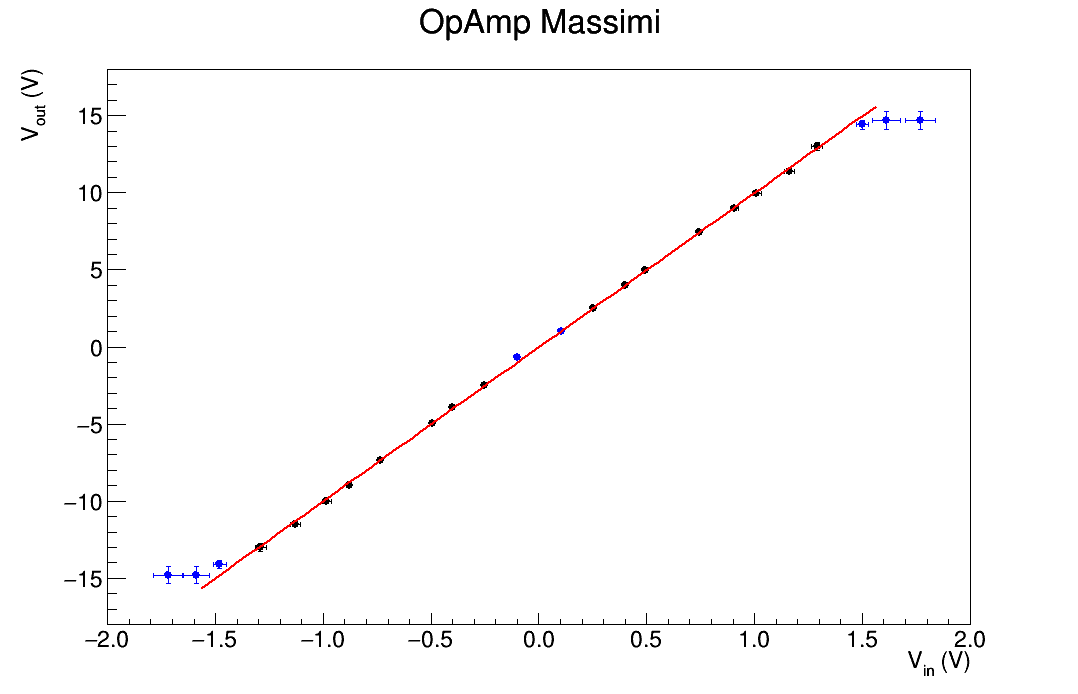
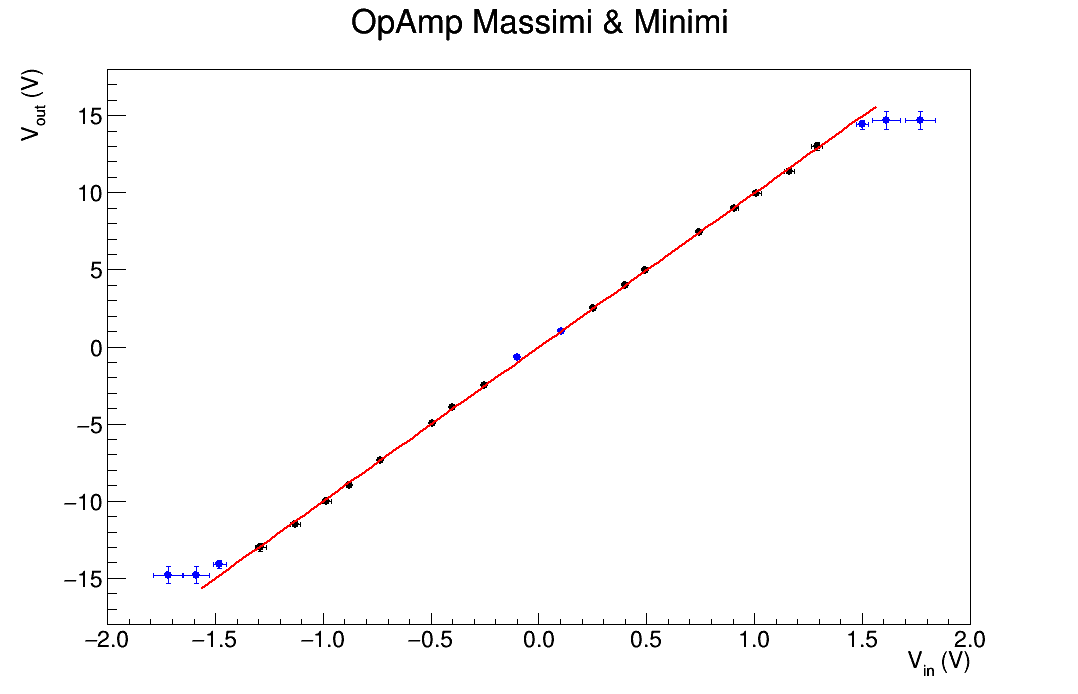
Updated code

Changed region(s): [[0.3367, 0.0, 0.6735, 0.0605]]

diff --git a/AMPLIFICATORI OPERAZIONALI/ROOT macros/opamp_all_plot_err.cpp b/AMPLIFICATORI OPERAZIONALI/ROOT macros/opamp_all_plot_err.cpp
@@ -97,6 +97,7 @@ void opamp_all_plot_err(){
     //personalizzo in modo globale i grafici
     NSP::settings_global();
 
+/*-------FACCIO IL GRAFICO CON TUTTI I DATI COMPRESI OUTLIERS-------*/
     ifstream f;
     f.open("../Data/data_opamp_all.txt");
     double i = 0;
@@ -112,7 +113,7 @@ void opamp_all_plot_err(){
 
     }
     f.close();
-
+    
     TGraphErrors* gr1 = new TGraphErrors(NSP::x1.size(), &NSP::x1[0], &NSP::y1[0], &NSP::errX1[0], &NSP::errY1[0]);
     NSP::settings_fit(gr1);
     gr1->SetMarkerColor(kBlue);
@@ -189,7 +190,7 @@ void NSP::settings_fit(TGraphErrors* graph) {
     NSP::c1->cd();
 
     //titolo e assi
-    graph-> SetTitle("OpAmp Massimi; V_{in} (V); V_{out} (V)");
+    graph-> SetTitle("OpAmp Massimi & Minimi; V_{in} (V); V_{out} (V)");
 
     //stile e colore
     graph-> SetLineColor(kBlack);
